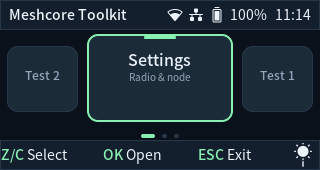
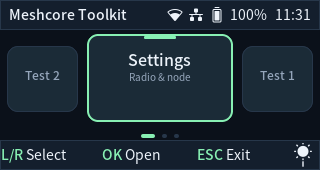
feat(settings): type the node name on the device keyboard; directional hint labels
Backspace worked but nothing could be typed: only ESC/arrows/Enter/Z/C/F/X and
the 4-8 nav keys reached the router, and every other letter was dropped.

- Map printable evdev keys (letters, digits, space, - . ; , / ' ` = [ ] \) so
  the keyboard can actually type. Each letter is mapped explicitly: evdev codes
  follow QWERTY order, so arithmetic on KEY_A yields "ustu" for "TERS".
- Add a platform text-input mode that suppresses letter->arrow folding and
  nav-button dispatch while a text field is open, so Z/C/F/X type normally
  inside the node-name editor and still navigate everywhere else.
  InputController::sync_text_mode() keeps it in step with the editor state.
- ViewModel::insert_node_char() inserts at the cursor and enforces the node-name
  charset and length.
- Hint labels now name the direction (Up/Dn, L/R) while the letter aliases keep
  working; the name editor shows "Type Name / OK Save / ESC Cancel".
- Desktop simulator: allow the "4" nav key through SDL text input in text mode.
- Docs: controls table, typing note, and the QWERTY keycode gotcha.
- Screenshots retaken (menu, settings, value edit, name editor).

diff --git a/src/platform/linux_input.cpp b/src/platform/linux_input.cpp
@@ -26,6 +26,7 @@ std::array<lv_obj_t*, kNavKeyCount> nav_buttons{};
 uint32_t last_key = 0;
 bool last_key_pressed = false;
 bool nav_shortcut_mode = false;
+bool text_input_mode_flag = false;
 uint32_t pressed_key = 0;
 uint32_t press_started_at = 0;
 bool long_press_sent = false;
@@ -52,6 +53,9 @@ struct EvdevKeypad {
 // The arrow keys sit under FN on the CardputerZero keyboard, so plain F/X and
 // Z/C act as up/down and left/right everywhere in the app.
 uint32_t normalize_nav_letter(uint32_t key) {
+    if (text_input_mode_flag) {
+        return key; // typing a name: 'f' must stay an 'f'
+    }
     switch (key) {
         case 'f':
         case 'F':
@@ -106,6 +110,9 @@ size_t nav_key_to_index(uint32_t key) {
 }
 
 void dispatch_nav_key(uint32_t key) {
+    if (text_input_mode_flag) {
+        return;
+    }
     const auto index = nav_key_to_index(key);
     if (index >= nav_buttons.size()) {
         return;
@@ -206,7 +213,71 @@ void key_event_cb(lv_event_t* event) {
 
 #if !USE_DESKTOP
 uint32_t map_evdev_key(uint16_t code) {
+    // Printable keys, so text fields can be typed on the device keyboard.
+    // Keycodes follow the physical QWERTY order, not the alphabet, so each
+    // letter is mapped explicitly.
     switch (code) {
+        case KEY_Q: return 'q';
+        case KEY_W: return 'w';
+        case KEY_E: return 'e';
+        case KEY_R: return 'r';
+        case KEY_T: return 't';
+        case KEY_Y: return 'y';
+        case KEY_U: return 'u';
+        case KEY_I: return 'i';
+        case KEY_O: return 'o';
+        case KEY_P: return 'p';
+        case KEY_A: return 'a';
+        case KEY_S: return 's';
+        case KEY_D: return 'd';
+        case KEY_F: return 'f';
+        case KEY_G: return 'g';
+        case KEY_H: return 'h';
+        case KEY_J: return 'j';
+        case KEY_K: return 'k';
+        case KEY_L: return 'l';
+        case KEY_Z: return 'z';
+        case KEY_X: return 'x';
+        case KEY_C: return 'c';
+        case KEY_V: return 'v';
+        case KEY_B: return 'b';
+        case KEY_N: return 'n';
+        case KEY_M: return 'm';
+        case KEY_1: return '1';
+        case KEY_2: return '2';
+        case KEY_3: return '3';
+        case KEY_4: return '4';
+        case KEY_5: return '5';
+        case KEY_6: return '6';
+        case KEY_7: return '7';
+        case KEY_8: return '8';
+        case KEY_9: return '9';
+        case KEY_0: return '0';
+
+        case KEY_SPACE:
+            return ' ';
+        case KEY_MINUS:
+            return '-';
+        case KEY_DOT:
+            return '.';
+        case KEY_SEMICOLON:
+            return ';';
+        case KEY_COMMA:
+            return ',';
+        case KEY_SLASH:
+            return '/';
+        case KEY_APOSTROPHE:
+            return '\'';
+        case KEY_GRAVE:
+            return '`';
+        case KEY_EQUAL:
+            return '=';
+        case KEY_LEFTBRACE:
+            return '[';
+        case KEY_RIGHTBRACE:
+            return ']';
+        case KEY_BACKSLASH:
+            return '\\';
         case KEY_ESC:
             return LV_KEY_ESC;
         case KEY_LEFT:
@@ -222,24 +293,6 @@ uint32_t map_evdev_key(uint16_t code) {
             return LV_KEY_ENTER;
         case KEY_BACKSPACE:
             return LV_KEY_BACKSPACE;
-        case KEY_Z:
-            return 'z';
-        case KEY_C:
-            return 'c';
-        case KEY_F:
-            return 'f';
-        case KEY_X:
-            return 'x';
-        case KEY_4:
-            return '4';
-        case KEY_5:
-            return '5';
-        case KEY_6:
-            return '6';
-        case KEY_7:
-            return '7';
-        case KEY_8:
-            return '8';
         case KEY_SYSRQ:
             return kKeyPrintScreen;
         case KEY_HELP:
@@ -405,6 +458,14 @@ void attach_key_router(lv_indev_t* indev) {
 
 void set_nav_shortcut_mode(bool enabled) {
     nav_shortcut_mode = enabled;
+}
+
+void set_text_input_mode(bool enabled) {
+    text_input_mode_flag = enabled;
+}
+
+bool text_input_mode() {
+    return text_input_mode_flag;
 }
 
 void register_nav_button(size_t index, lv_obj_t* button) {

diff --git a/src/view/widgets/navbar.cpp b/src/view/widgets/navbar.cpp
@@ -22,13 +22,16 @@ struct HintSpec {
     const char* action;
 };
 
-std::array<HintSpec, 3> hints_for(model::AppPage page, bool editing) {
+std::array<HintSpec, 3> hints_for(model::AppPage page, bool editing, bool editing_name) {
     switch (page) {
         case model::AppPage::Settings:
-            if (editing) {
-                return {{{"Z/C", "Change"}, {"OK", "Save"}, {"ESC", "Cancel"}}};
+            if (editing_name) {
+                return {{{"Type", "Name"}, {"OK", "Save"}, {"ESC", "Cancel"}}};
             }
-            return {{{"F/X", "Field"}, {"OK", "Edit"}, {"ESC", "Back"}}};
+            if (editing) {
+                return {{{"L/R", "Change"}, {"OK", "Save"}, {"ESC", "Cancel"}}};
+            }
+            return {{{"Up/Dn", "Field"}, {"OK", "Edit"}, {"ESC", "Back"}}};
         case model::AppPage::Test1:
         case model::AppPage::Test2:
             return {{{"", ""}, {"ESC", "Back"}, {"", ""}}};
@@ -36,7 +39,7 @@ std::array<HintSpec, 3> hints_for(model::AppPage page, bool editing) {
             return {{{"OK", "Retry"}, {"", ""}, {"ESC", "Continue"}}};
         case model::AppPage::Home:
         default:
-            return {{{"Z/C", "Select"}, {"OK", "Open"}, {"ESC", "Exit"}}};
+            return {{{"L/R", "Select"}, {"OK", "Open"}, {"ESC", "Exit"}}};
     }
 }
 
@@ -124,10 +127,10 @@ void NavBar::build() {
 }
 
 void NavBar::update_hints() {
+    const bool editing_name = lv_subject_get_int(view_model_.node_edit_active_subject()) != 0;
     const bool editing =
-        lv_subject_get_int(view_model_.settings_edit_active_subject()) != 0 ||
-        lv_subject_get_int(view_model_.node_edit_active_subject()) != 0;
-    const auto hints = hints_for(view_model_.current_page(), editing);
+        lv_subject_get_int(view_model_.settings_edit_active_subject()) != 0 || editing_name;
+    const auto hints = hints_for(view_model_.current_page(), editing, editing_name);
     const auto palette = view::palette(view_model_.is_dark_mode());
     for (int i = 0; i < 3; ++i) {
         lv_label_set_text(hint_keys_[i], hints[i].key);

diff --git a/src/app/app.cpp b/src/app/app.cpp
@@ -129,6 +129,7 @@ public:
         toast_->build();
         help_popup_->build();
         platform::set_global_key_listener(global_key_listener, this);
+        sync_text_mode();
     }
 
     ~InputController() {
@@ -136,6 +137,15 @@ public:
     }
 
 private:
+    static bool is_printable(uint32_t key) {
+        return key >= 32 && key < 127;
+    }
+
+    void sync_text_mode() {
+        platform::set_text_input_mode(
+            lv_subject_get_int(view_model_.node_edit_active_subject()) != 0);
+    }
+
     static bool is_left(uint32_t key) {
         return key == 'z' || key == 'Z' || key == LV_KEY_LEFT;
     }
@@ -234,10 +244,12 @@ private:
         if (editing_name) {
             if (key == LV_KEY_ENTER) {
                 view_model_.toggle_node_edit(); // commit
+                sync_text_mode();
                 return true;
             }
             if (key == LV_KEY_ESC) {
                 view_model_.cancel_node_edit();
+                sync_text_mode();
                 return true;
             }
             if (key == LV_KEY_LEFT) {
@@ -258,6 +270,10 @@ private:
             }
             if (key == LV_KEY_BACKSPACE) {
                 view_model_.backspace_node_char();
+                return true;
+            }
+            if (is_printable(key)) {
+                view_model_.insert_node_char(static_cast<char>(key));
                 return true;
             }
             return false;
@@ -300,6 +316,7 @@ private:
             if (lv_subject_get_int(view_model_.settings_focus_subject()) ==
                 static_cast<int>(model::SettingsField::NodeName)) {
                 view_model_.toggle_node_edit();
+                sync_text_mode();
             } else {
                 view_model_.begin_settings_edit();
             }

diff --git a/src/viewmodel/base_viewmodel.cpp b/src/viewmodel/base_viewmodel.cpp
@@ -272,6 +272,30 @@ void BaseViewModel::cycle_node_char(int delta) {
     publish_mesh();
 }
 
+void BaseViewModel::insert_node_char(char character) {
+    if (character == '\0' || std::strchr(kNodeCharset, character) == nullptr) {
+        return; // only characters the config format accepts
+    }
+
+    auto& mesh = model_.mutable_mesh_config();
+    const int len = static_cast<int>(std::strlen(mesh.node_name));
+    if (len >= model::kMaxNodeName) {
+        return;
+    }
+
+    int cursor = model_.node_edit_cursor();
+    if (cursor > len) {
+        cursor = len;
+    }
+
+    for (int i = len; i >= cursor; --i) {
+        mesh.node_name[i + 1] = mesh.node_name[i];
+    }
+    mesh.node_name[cursor] = character;
+    model_.set_node_edit_cursor(cursor + 1);
+    publish_mesh();
+}
+
 void BaseViewModel::backspace_node_char() {
     auto& mesh = model_.mutable_mesh_config();
     const int len = static_cast<int>(std::strlen(mesh.node_name));

diff --git a/src/view/widgets/help_popup.cpp b/src/view/widgets/help_popup.cpp
@@ -22,7 +22,7 @@ struct HelpRow {
 };
 
 constexpr std::array<HelpRow, 5> kHomeRows = {{
-    {"Z / C", "Select card"},
+    {"LEFT / RIGHT", "Select card (Z / C too)"},
     {"OK", "Open card"},
     {"ESC", "Exit"},
     {"6", "Light / dark"},
@@ -30,9 +30,9 @@ constexpr std::array<HelpRow, 5> kHomeRows = {{
 }};
 
 constexpr std::array<HelpRow, 5> kSettingsRows = {{
-    {"F / X", "Choose field (no FN needed)"},
+    {"UP / DN", "Choose field (F / X too)"},
     {"OK", "Edit the focused field"},
-    {"Z / C", "Change the value while editing"},
+    {"LEFT / RIGHT", "Change value (Z / C too)"},
     {"OK / ESC", "Save / cancel the edit"},
     {"ESC", "Back when not editing"},
 }};

diff --git a/src/platform/linux_input.h b/src/platform/linux_input.h
@@ -21,6 +21,10 @@ using GlobalKeyListener = bool (*)(uint32_t key,
 void init_key_input(lv_display_t* display);
 void attach_key_router(lv_indev_t* indev);
 void set_nav_shortcut_mode(bool enabled);
+// While enabled, letter keys are delivered as typed characters instead of
+// being folded into arrows, and nav-button shortcuts are dispatched to the UI.
+void set_text_input_mode(bool enabled);
+bool text_input_mode();
 void register_nav_button(size_t index, lv_obj_t* button);
 void unregister_nav_button(size_t index, lv_obj_t* button);
 void set_key_release_listener(KeyReleaseListener listener, void* user_data);

diff --git a/src/app/desktop_simulator_frame.cpp b/src/app/desktop_simulator_frame.cpp
@@ -387,7 +387,7 @@ void DesktopSimulatorFrame::handle_event(const SDL_Event& event, bool& running) 
                 std::copy_n(reinterpret_cast<const uint8_t*>(cursor),
                             std::min<uint32_t>(length, sizeof(key)),
                             reinterpret_cast<uint8_t*>(&key));
-                if (keypad_ && key != '4') {
+                if (keypad_ && (key != '4' || platform::text_input_mode())) {
                     keypad_->emit_key(key);
                 }
                 cursor += length;

diff --git a/src/viewmodel/base_viewmodel.h b/src/viewmodel/base_viewmodel.h
@@ -73,6 +73,7 @@ public:
     void cancel_node_edit();
     void move_node_cursor(int delta);
     void cycle_node_char(int delta);
+    void insert_node_char(char character);
     void backspace_node_char();
 
     void set_mesh_config(const model::MeshConfig& config);

diff --git a/README.md b/README.md
@@ -8,9 +8,9 @@ The main screen is a sliding card carousel — Settings, Test 1, Test 2 — port
 from the [CardputerZero mouse emulator](https://github.com/CardputerZero/cardputer-zero-mouse-emu)
 layout, so the two apps look like siblings on the device.
 
-| Main menu | Settings | Editing a value |
-| --- | --- | --- |
-| ![Main menu](screenshot/app-home.png) | ![Settings](screenshot/app-settings.png) | ![Editing](screenshot/app-settings-edit.png) |
+| Main menu | Settings | Editing a value | Typing the node name |
+| --- | --- | --- | --- |
+| ![Main menu](screenshot/app-home.png) | ![Settings](screenshot/app-settings.png) | ![Editing](screenshot/app-settings-edit.png) | ![Name editor](screenshot/app-name-edit.png) |
 
 *Captured on the device with the app's own screenshot key (320×170).*
 *The app starts in the dark palette shared with Mouse Jiggler; `6` switches to light.*
@@ -23,8 +23,11 @@ layout, so the two apps look like siblings on the device.
   `6` toggles a light theme.
 - **Settings** — configure every primary MeshCore radio option:
   node name, region (with presets), frequency, spreading factor, bandwidth,
-  coding rate, TX power, sync word, and preamble. F/X pick a field, OK opens it,
-  Z/C change the value, OK saves and ESC cancels.
+  coding rate, TX power, sync word, and preamble. Up/Down pick a field, OK opens
+  it, Left/Right change the value, OK saves and ESC cancels.
+- **Typing** — the node name is entered directly on the CardputerZero keyboard;
+  the same letters act as arrows everywhere else, and the app switches behaviour
+  per mode so `Z`/`C`/`F`/`X` type normally while the editor is open.
 - **Regions** — Europe, USA/Canada, Australia, New Zealand, EU 433, and a Custom
   mode for manual frequency plans.
 - **LoRa hat check** — powers the hat's EXT 5V rail, probes the SX1262 on the SPI
@@ -45,9 +48,10 @@ plain letters instead — no `FN` chord is ever needed.
 
 | Key | Action |
 | --- | --- |
-| `Z` / `C` (or `←` / `→`) | move the carousel selection / change a value while editing |
-| `F` / `X` (or `↑` / `↓`) | choose a settings field / cycle a name character |
+| `←` / `→` (or `Z` / `C`) | move the carousel selection / change a value while editing |
+| `↑` / `↓` (or `F` / `X`) | choose a settings field / cycle a name character |
 | `OK` / `Enter` | open the selected card, start editing the focused field, then save |
+| any letter / digit / space / `-` `.` | type into the node name while it is being edited |
 | `ESC` | cancel an edit, go back, or exit from the main screen |
 | `6` | light / dark theme |
 | `PRSC` | save a screenshot |
@@ -158,8 +162,7 @@ config at `/etc/meshcore-toolkit.conf`.
 
 ## Credits
 
-- UI carousel language and layout metrics: [Ultimate-Remote](https://github.com/geo-tp/Ultimate-Remote) (MIT)
-- Main-screen layout: [cardputer-zero-mouse-emu](https://github.com/CardputerZero/cardputer-zero-mouse-jiggler)
+- UI carousel language and layout metrics, main-screen layout: [Ultimate-Remote](https://github.com/geo-tp/Ultimate-Remote) (MIT)
 - Radio configuration model: [MeshCore](https://github.com/meshcore-dev/MeshCore) (MIT)
 - LoRa hat: [M5Stack Cap LoRa-1262](https://docs.m5stack.com/en/cap/Cap_LoRa-1262)
 
